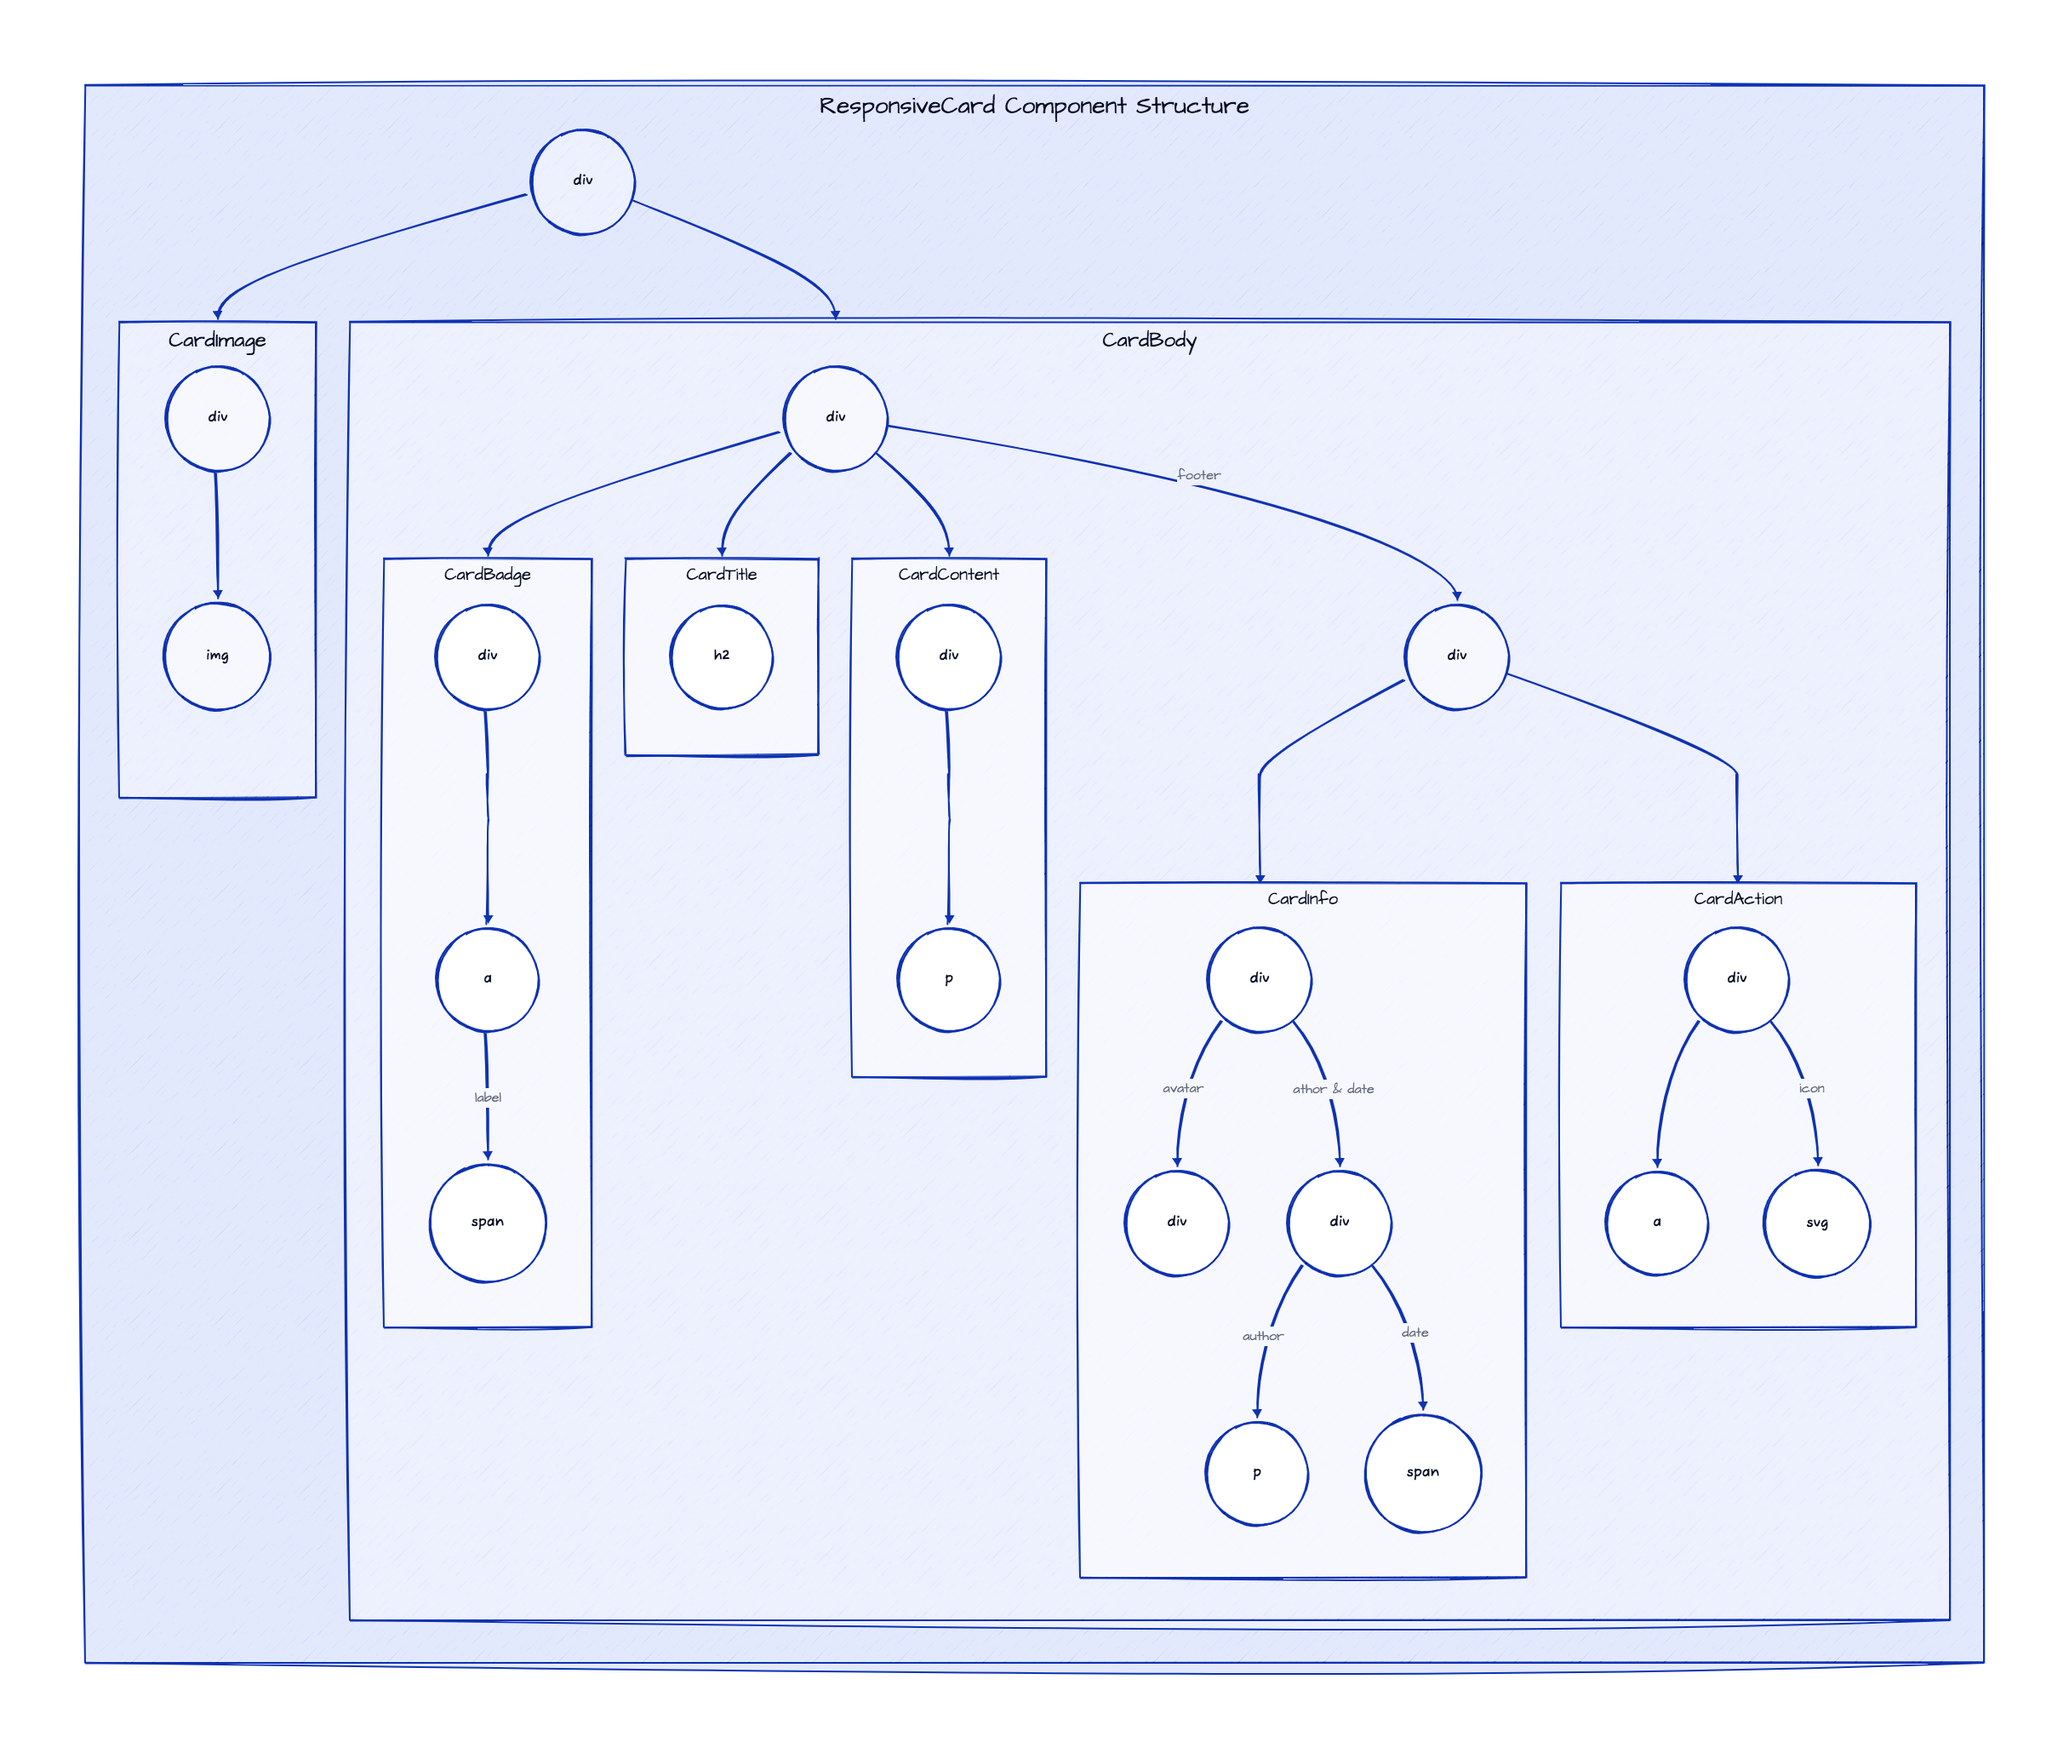
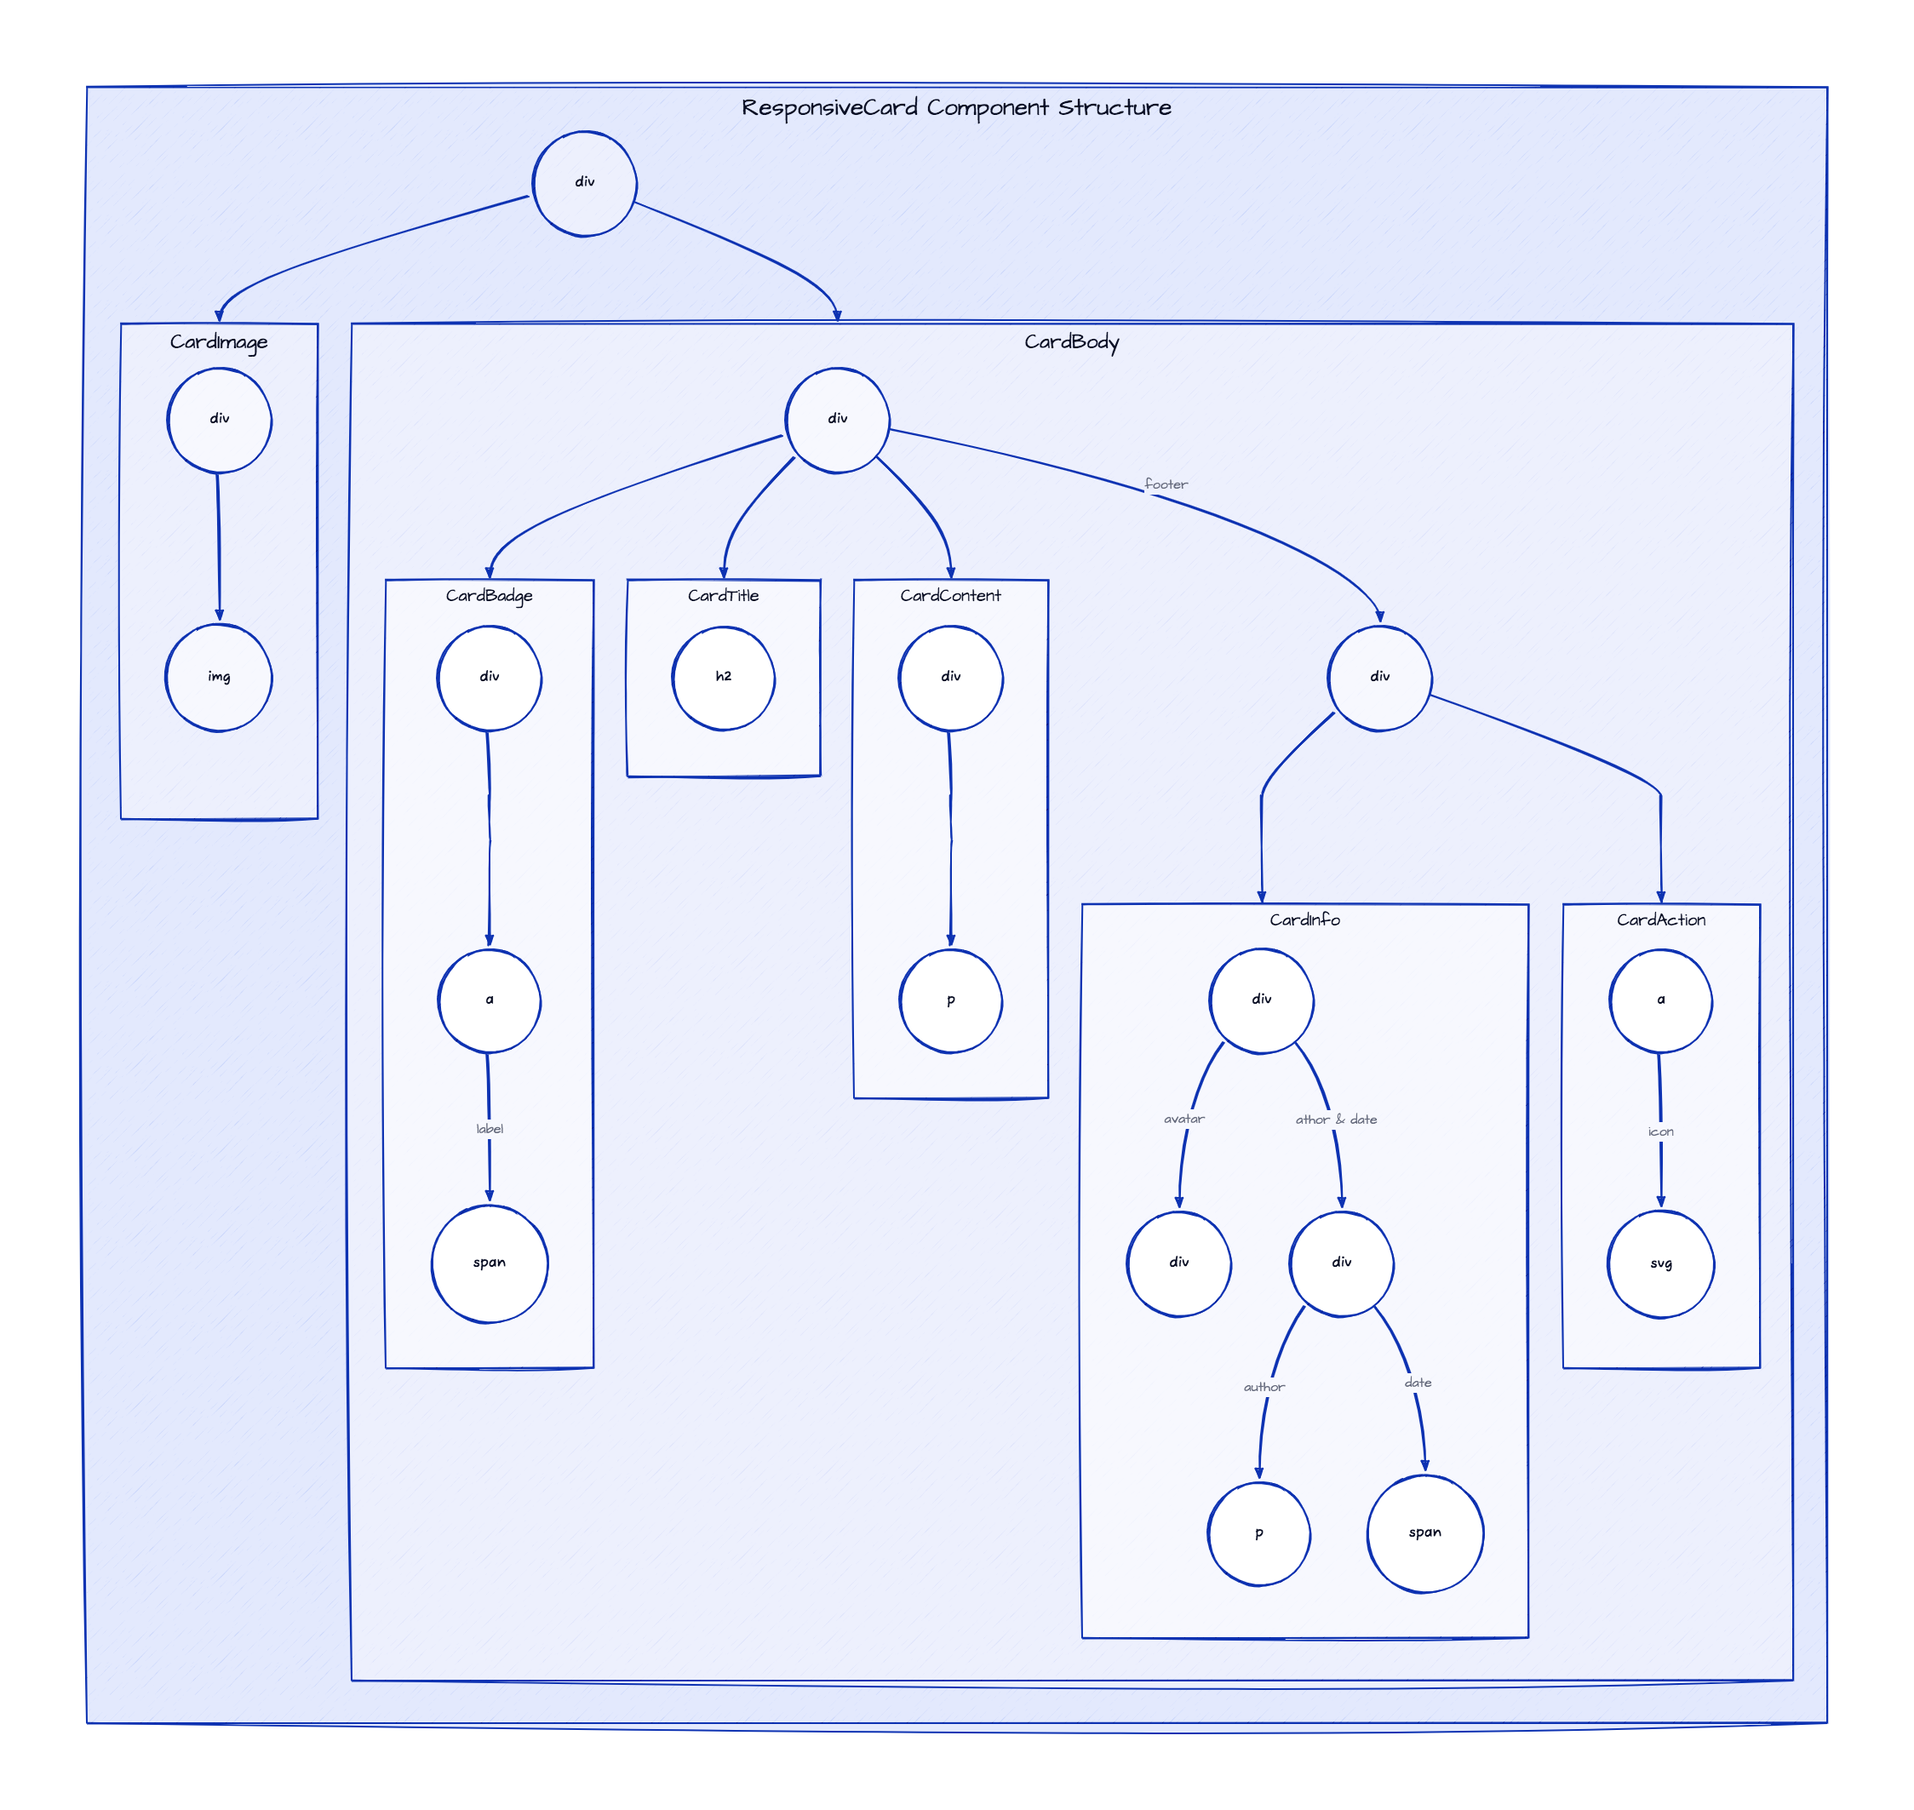
refactor(widgets/responsivecard): make CardAction an <a> tag

diff --git a/packages/widgets/src/lib/components/responsivecard/CardAction.svelte b/packages/widgets/src/lib/components/responsivecard/CardAction.svelte
@@ -3,8 +3,8 @@
 	export let href = '';
 </script>
 
-<div class="card__actions">
-	<a {href} aria-label="{label} link">{label}</a>
+<a {href} class="card__actions" aria-label="{label} link"
+	>{label}
 	<slot name="btn-icon">
 		<svg
 			xmlns="http://www.w3.org/2000/svg"
@@ -23,4 +23,4 @@
 			/></svg
 		>
 	</slot>
-</div>
+</a>
